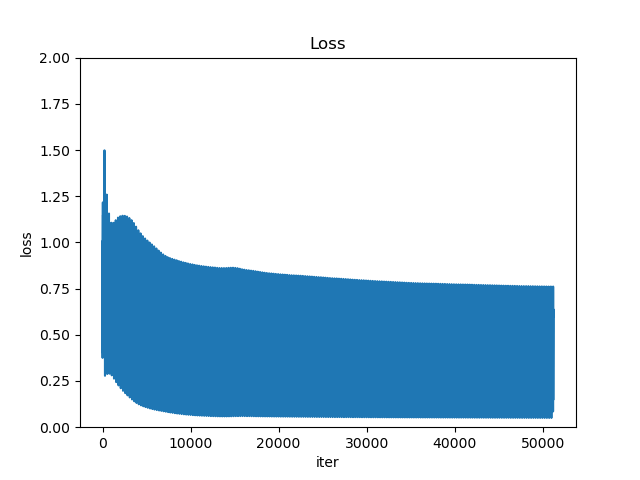
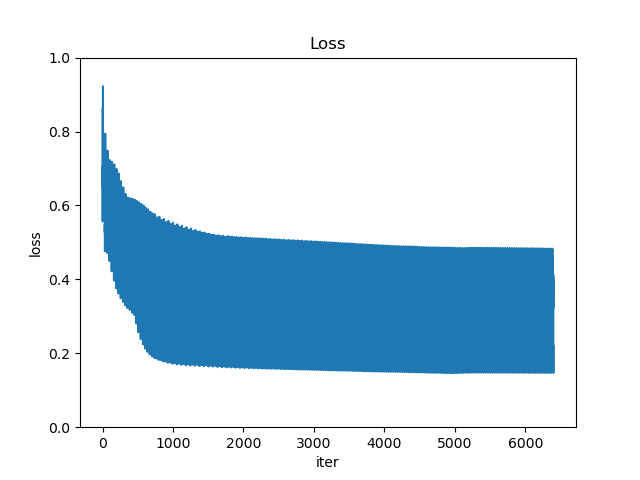
apply Adam method; update nn structure with atrous layer

diff --git a/train.py b/train.py
@@ -1,11 +1,11 @@
 # -*- utf-8: python -*-
-'''
+"""
 Software Design
 
 Authoer: Chris Cui
 
 Time: 2019-09-03
-'''
+"""
 
 import torch
 import torch.optim
@@ -16,20 +16,36 @@ from model import FCNN
 from loss import CrossEntropyLoss2d
 
 
-def train(model, train_loader, device,
-          tile_size, epochs=10, batch_size=1,
-          learning_rate = 1e-4, momentum=0.9, weight_decay=5e-3):
+def train(
+    model,
+    train_loader,
+    device,
+    tile_size,
+    epochs=10,
+    batch_size=1,
+    learning_rate=1e-4,
+    momentum=0.9,
+    weight_decay=5e-3,
+):
     criterion = CrossEntropyLoss2d()
-    optimizer = torch.optim.SGD(model.parameters(
-    ), lr=learning_rate, momentum=momentum, weight_decay=weight_decay)
+
+    # optimizer = torch.optim.SGD(
+    optimizer = torch.optim.Adam(
+        model.parameters(),
+        lr=learning_rate,
+        # momentum=momentum,
+        weight_decay=weight_decay,
+    )
     model.train()
     model = model.to(device=device)
     criterion = criterion.to(device=device)
     training_stats = utils.Stats()
     for n in range(epochs):
         epoch_stats = utils.Stats()
-        loader_with_progress = utils.loader_with_progress(train_loader,
-                                                          epoch_n=n, epoch_total=epochs, stats=epoch_stats, leave=True)
+
+        loader_with_progress = utils.loader_with_progress(
+            train_loader, epoch_n=n, epoch_total=epochs, stats=epoch_stats, leave=True
+        )
         for i, (x, y) in enumerate(loader_with_progress):
             y = y.to(device=device)
             x = x.to(device=device)
@@ -44,34 +60,32 @@ def train(model, train_loader, device,
     return model, training_stats
 
 
-if __name__ == '__main__':
+if __name__ == "__main__":
 
     # TODO: Get through CLI args
     epochs = 200
-    batch_size = 32
-    use_gpu = False
-    tile_size = (256, 256)
-
-    learning_rate = 0.01
-    weight_decay = 0.0005
+    batch_size = 8  # 8x8
+    # use_gpu = False
+    use_gpu = True
+    tile_size = (250, 250)
+    learning_rate = 1e-4
+    weight_decay = 0.001
     device = utils.device(use_gpu=use_gpu)
-
     model = FCNN()
-
-    train_loader = dataset.training_loader(batch_size=batch_size,
-                                           tile_size=tile_size)
-
-    model, stats = train(model=model,
-                         train_loader=train_loader,
-                         device=device,
-                         epochs=epochs,
-                         batch_size=batch_size,
-                         tile_size=tile_size,
-                         learning_rate = learning_rate,
-                         weight_decay = weight_decay)
+    train_loader = dataset.training_loader(batch_size=batch_size, tile_size=tile_size)
+    model, stats = train(
+        model=model,
+        train_loader=train_loader,
+        device=device,
+        epochs=epochs,
+        batch_size=batch_size,
+        tile_size=tile_size,
+        learning_rate=learning_rate,
+        weight_decay=weight_decay,
+    )
 
     model_path = utils.save_weights_to_disk(model)
-    print('(i) Model saved at {}'.format(model_path))
-    loss_plot_path = './images/output/loss_plot_boxhill.png'
+    print("(i) Model saved at {}".format(model_path))
+    loss_plot_path = "./images/output/loss_plot_boxhill.png"
     stats.save_loss_plot(loss_plot_path)
-    print('(i) Loss plot saved at {}'.format(loss_plot_path))
+    print("(i) Loss plot saved at {}".format(loss_plot_path))

diff --git a/model.py b/model.py
@@ -11,19 +11,22 @@ class FCNN(nn.Module):
     def __init__(self, num_classes=2):
         super(FCNN, self).__init__()
         # 1 input image channel, 6 output channels, 3x3 square convolution
-        # kernel
+        # kernel :  N C H W
         # https://pytorch.org/docs/stable/generated/torch.nn.Conv2d.html?highlight=nn%20conv2d#torch.nn.Conv2d
         nc = num_classes
         self.conv1 = nn.Conv2d(3, 16, (3, 3), padding=1)
-        self.conv2 = nn.Conv2d(16, 32, (3, 3), padding=1)
+        # add  à trous algorithm, looking large area and keep in and out same size.
+        self.convx = nn.Conv2d(3, 16, (5, 5), stride=1, padding=4, dilation=2)
+
+        self.conv2 = nn.Conv2d(16 + 16, 32, (3, 3), padding=1)
         self.conv3 = nn.Conv2d(32, 16, (3, 3), padding=1)
         self.conv4 = nn.Conv2d(16, nc, (5, 5), padding=2)
 
     def forward(self, x):
         input_size = x.size()[2:]
-
-        x = self.conv1(x)
-        x = F.relu(x)
+        x1 = F.relu(self.conv1(x))
+        x2 = F.relu(self.convx(x))
+        x = torch.cat((x1, x2), 1)  # concatenated on channel
         x = self.conv2(x)
         x = F.relu(x)
         x = F.max_pool2d(x, (2, 2))

diff --git a/dataset.py b/dataset.py
@@ -82,10 +82,10 @@ def tile_dataset(tile_size, tile_stride_ratio=1.0):
 
     # Clip tiles accumulators to the actual number of tiles
     # Since some tiles might have been discarded, n <= tile_count
-    # x_tiles = torch.from_numpy(x_tiles[0 : n + 1, :, :, :])
-    # y_tiles = torch.from_numpy(y_tiles[0 : n + 1, :, :])
-    x_tiles = torch.from_numpy(x_tiles)
-    y_tiles = torch.from_numpy(y_tiles)
+    x_tiles = torch.from_numpy(x_tiles[0:n, :, :, :])
+    y_tiles = torch.from_numpy(y_tiles[0:n, :, :])
+    # x_tiles = torch.from_numpy(x_tiles)
+    # y_tiles = torch.from_numpy(y_tiles)
     x_tiles = x_tiles.to(dtype=utils.x_dtype())
     y_tiles = y_tiles.to(dtype=utils.y_dtype())
 
